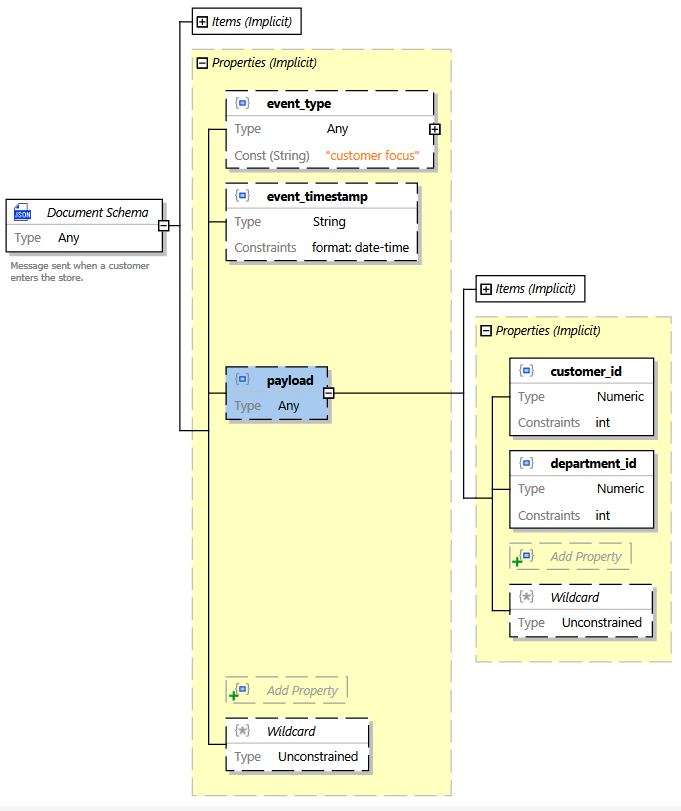
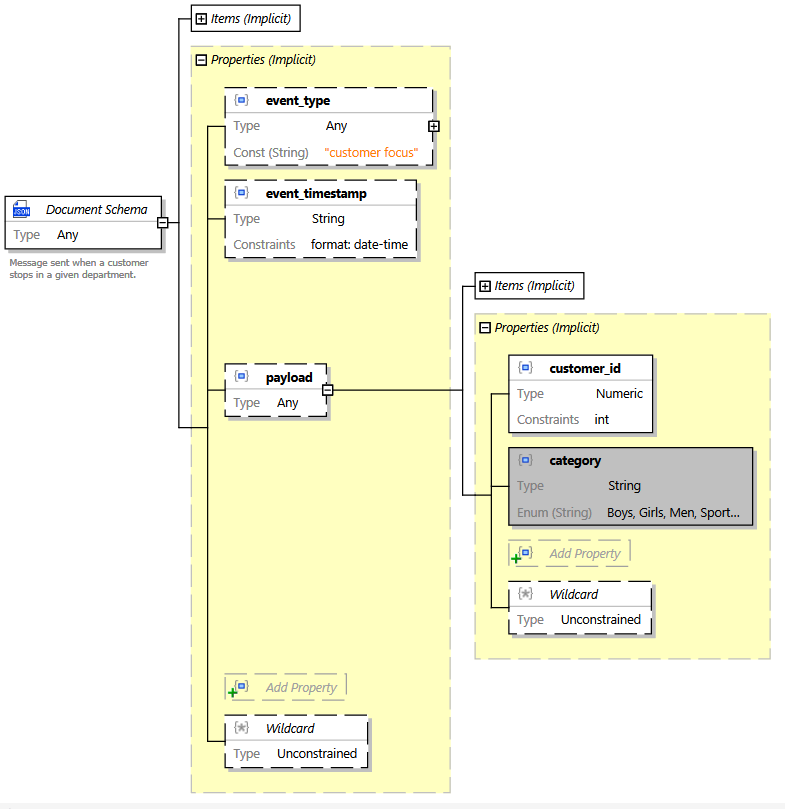
Change department_id to category.

Changed region(s): [[0.0, 0.0, 0.9868, 0.9889]]

diff --git a/recommendation-service/app/utils/prediction_client.py b/recommendation-service/app/utils/prediction_client.py
@@ -3,22 +3,21 @@ import json
 import httpx
 
 from app.utils import logger
-from app.utils.config import COUPON_SCORER_URL, DEPARTMENTS
+from app.utils.config import COUPON_SCORER_URL
 from app.utils.kafka_clients import prediction_producer
 
 from app.utils.model import PredictionResultEvent, PredictionResultPayload
-from app.utils.prediction_model import Customer, Coupon, PredictionInput, PredictionOutput
+from app.utils.prediction_model import PredictionInput, PredictionOutput
 from app.cache.read_cache import ReadCache
 
 
 async def process_prediction_request(message: str, db_pool) -> float:
     logger.info('process_prediction_request')
 
-    # Extract customer and departament id
+    # Extract customer and departament category
     json_object = json.loads(message)
     customer_id: int = json_object.get('payload')['customer_id']
-    department_id: int = json_object.get('payload')['department_id']
-    category: str = DEPARTMENTS[department_id]
+    category: str = json_object.get('payload')['category']
 
     rc = ReadCache(db_pool)
     # Get customer context
@@ -31,13 +30,11 @@ async def process_prediction_request(message: str, db_pool) -> float:
     payload = PredictionInput(customer=customer, coupons=coupons)
 
     # Make the request
-    logger.info(f'Calling Score Coupons service with {customer_id}, {department_id}')
-    # TODO XXX make a real call
-    logger.warn(f'not implemented -- should invoke {COUPON_SCORER_URL}')
+    logger.info(f'Calling Score Coupons service with {customer_id}, {category}')
     prediction_output = await get_prediction(payload)
 
     # Emmit prediction result event
-    timestamp = datetime.datetime.utcnow()  # .isoformat()
+    timestamp = datetime.datetime.utcnow()
 
     for p in prediction_output:
         payload = PredictionResultPayload(customer_id=p.customer_id, coupon_id=p.coupon_id, prediction=p.prediction)

diff --git a/recommendation-service/app/utils/testing.py b/recommendation-service/app/utils/testing.py
@@ -26,7 +26,6 @@ class DummyProducer:
         logger.info(f'pretending to publish_message to topic {self.topic} with key {key}')
         logger.info(value)
         try:
-            # XXX TODO think about defining serializers for the producer
             if key:
                 key = key.encode('utf-8')
             if value:

diff --git a/recommendation-service/app/utils/event_producer.py b/recommendation-service/app/utils/event_producer.py
@@ -37,5 +37,5 @@ class EventProducer:
             logger.debug(f'Message {value} published.')
         except Exception as ex:
             logger.error(f'Exception in publishing message: {type(ex)} {ex}')
-            # TODO XXX propagate the exception?
+            # TODO propagate the exception?
             # raise

diff --git a/recommendation-service/app/utils/model.py b/recommendation-service/app/utils/model.py
@@ -5,7 +5,7 @@ from pydantic import BaseModel, condecimal
 
 class FocusEventPayload(BaseModel):
     customer_id: int
-    department_id: int
+    category: str
 
 
 class FocusEvent(BaseModel):

diff --git a/recommendation-service/app/utils/prediction_model.py b/recommendation-service/app/utils/prediction_model.py
@@ -1,6 +1,6 @@
 from typing import List
 
-from pydantic import BaseModel, conint
+from pydantic import BaseModel, confloat
 
 
 class Coupon(BaseModel):

diff --git a/recommendation-service/README.md b/recommendation-service/README.md
@@ -66,10 +66,12 @@ In this case, the example message looks like this:
     "event_timestamp": "2001-12-17T09:30:47.0",
     "payload": {
         "customer_id": 1,
-        "department_id": 1
+        "category": "Boys"
     }
 }
 ```
+
+ATTOW, supported categories are 'Boys', 'Girls', 'Men', 'Sports', 'Women'.
 
 ### Prediction Results Message
 The schema for prediction result message is:
@@ -142,7 +144,7 @@ $ . .environment.variables.sh
 $ . venv/bin/activate
 (venv)$ uvicorn app.main:app --host 0.0.0.0 --reload --reload-dir app
 ```
-> Please, note `reload-dir` switch. Without it the realoader goes into inifinte loop because it detects log file changes (messages.log).
+> Please, note `reload-dir` switch. Without it the reloader goes into an infinite loop because it detects log file changes (messages.log).
 
 ## Testing with Kafka in docker-compose
 
@@ -217,8 +219,8 @@ curl -X 'POST' \
   "event_type": "focus event",
   "event_timestamp": "2021-03-18T08:29:02.160Z",
   "payload": {
-    "customer_id": 0,
-    "department_id": 0
+    "customer_id": 7,
+    "category": "Sports"
   }
 }'
 ```
@@ -271,8 +273,8 @@ curl -X 'POST' \
   "event_type": "focus event",
   "event_timestamp": "2021-03-18T08:29:02.160Z",
   "payload": {
-    "customer_id": 0,
-    "department_id": 0
+    "customer_id": 8,
+    "category": "Women" 
   }
 }'
 ```
